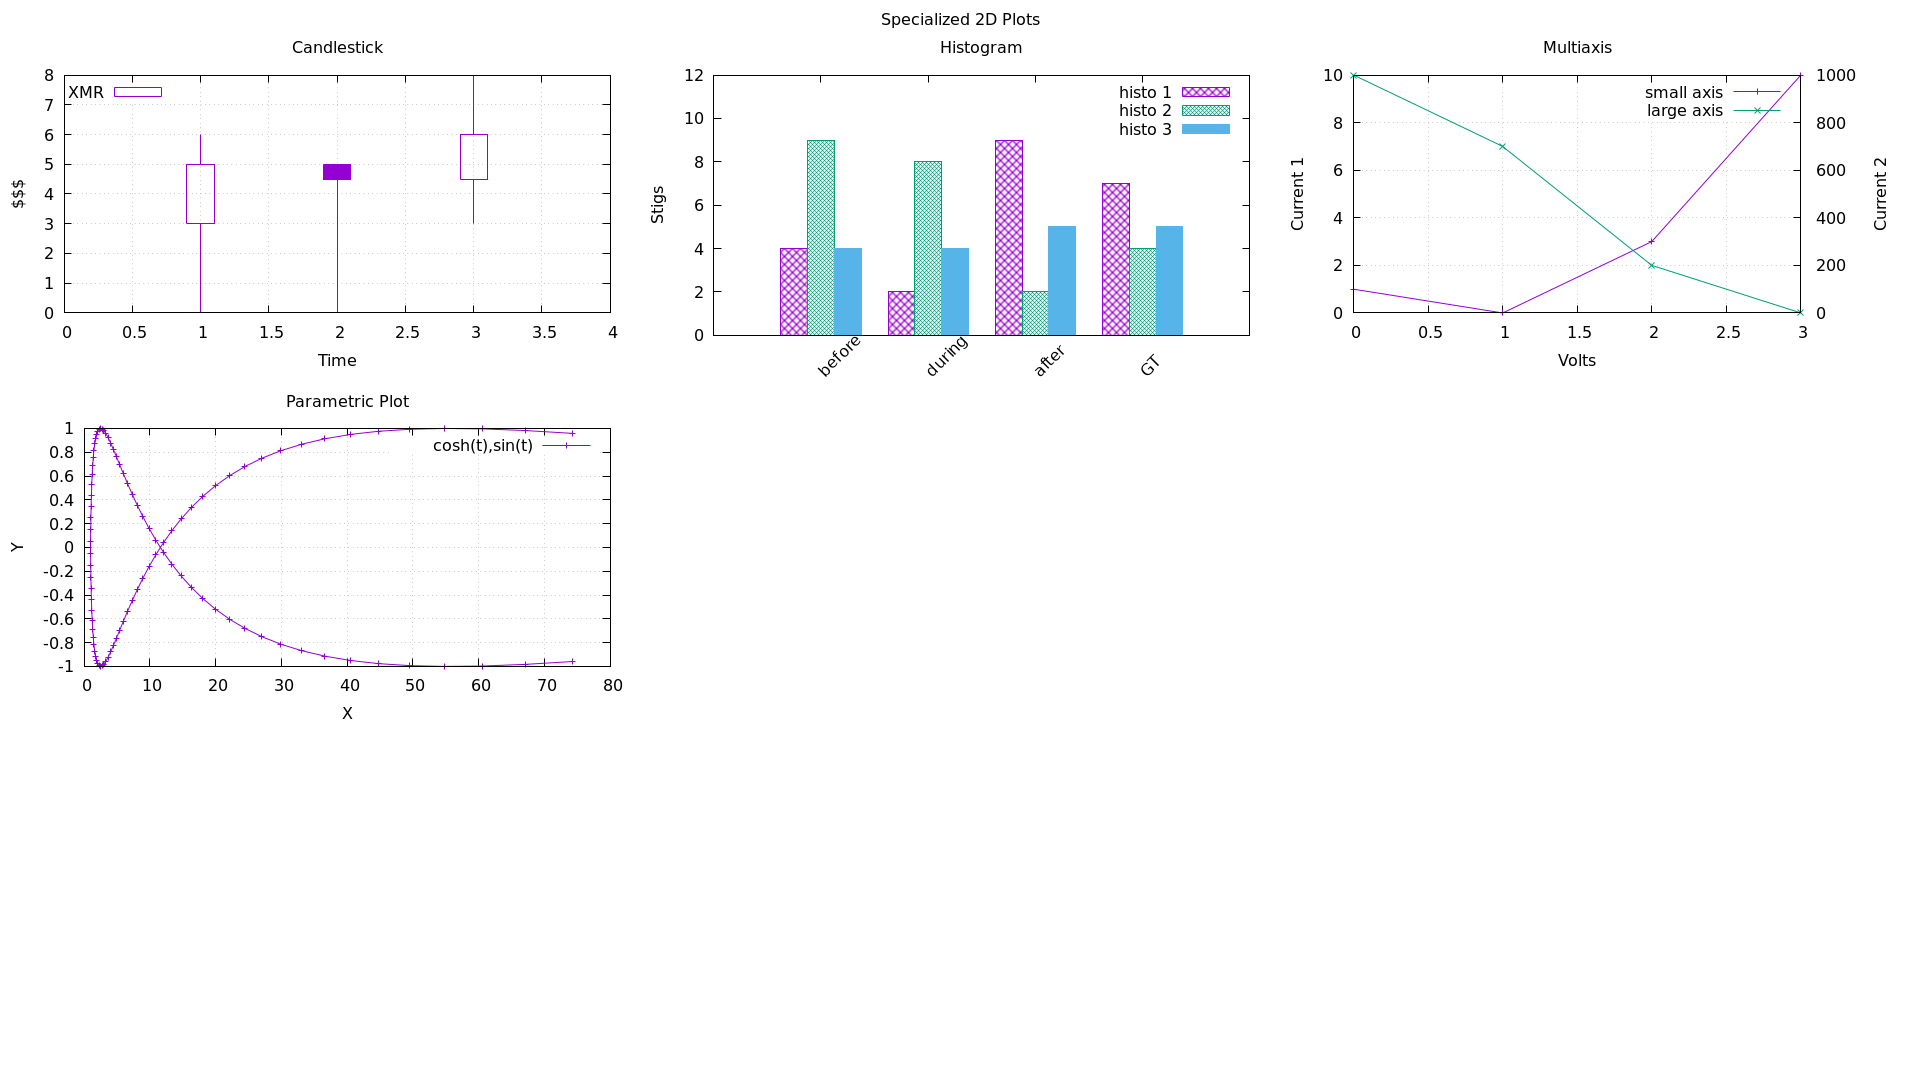
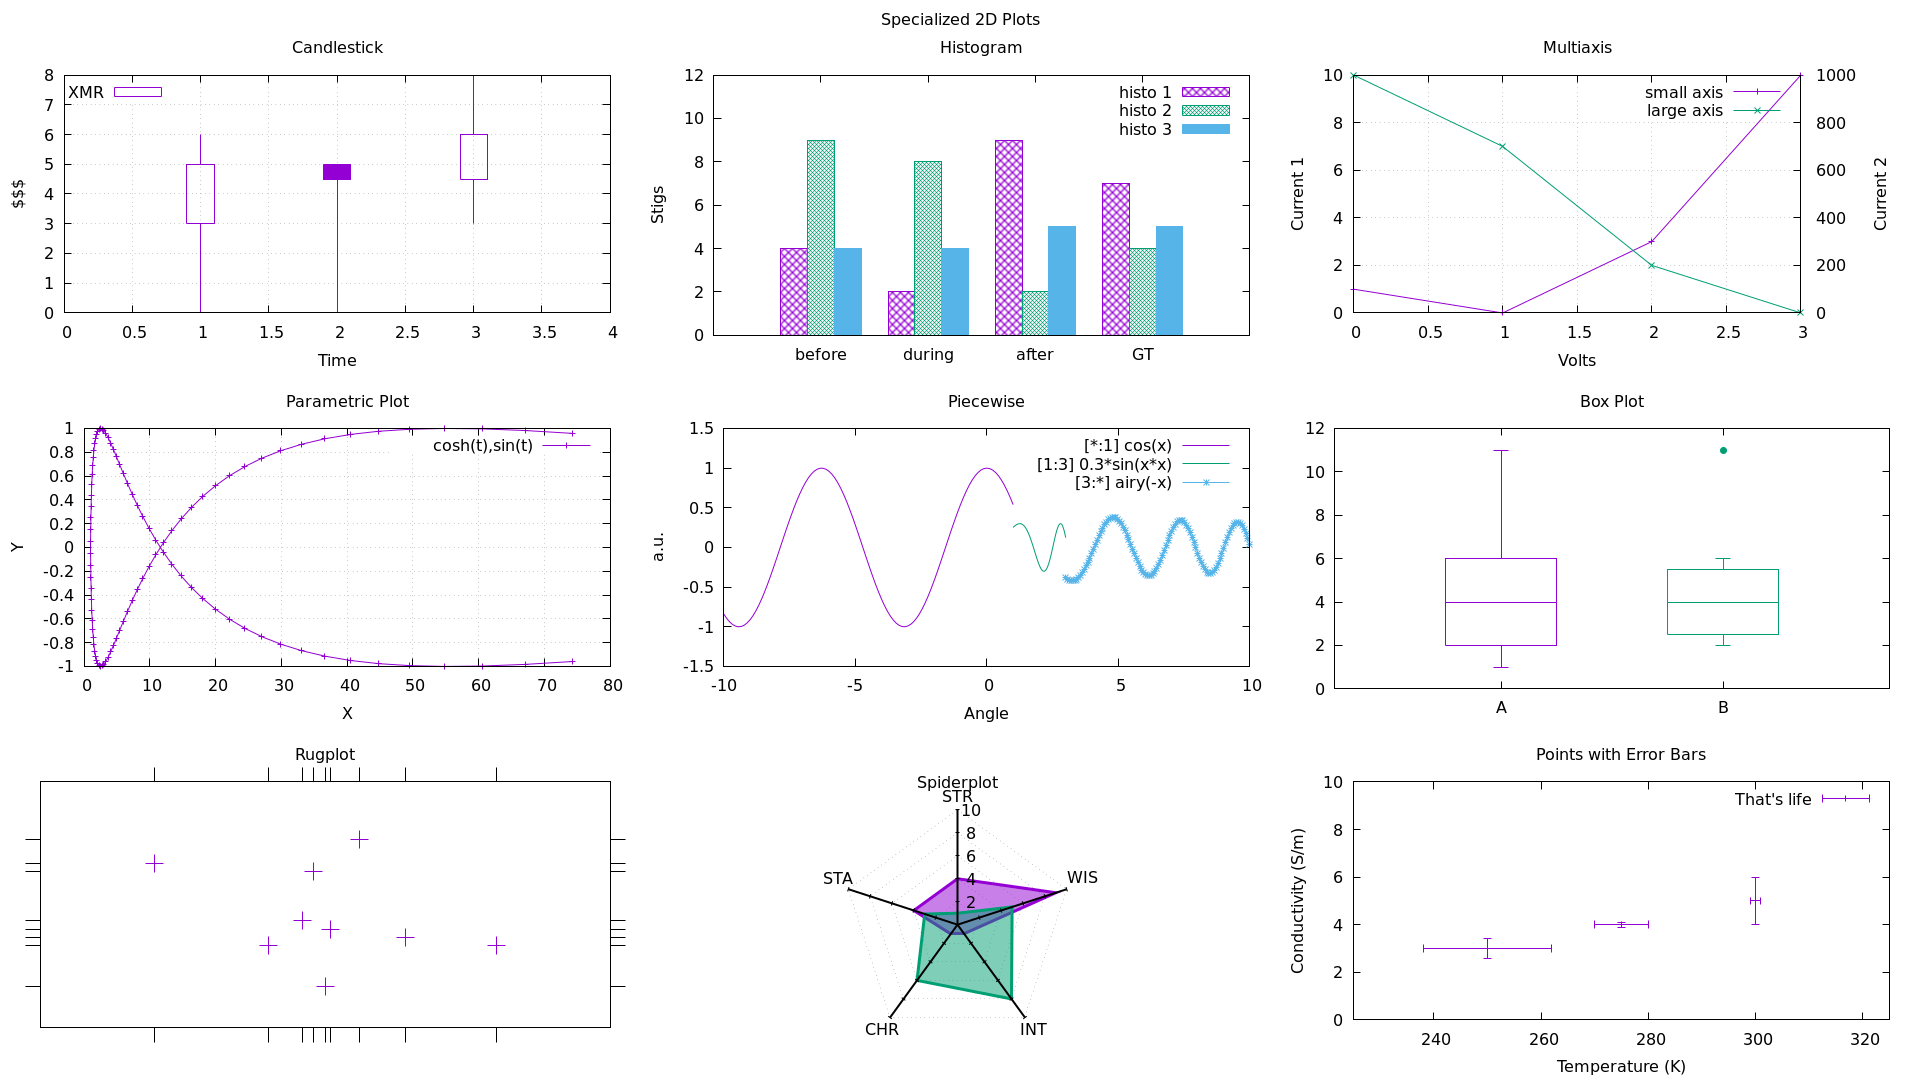
Updated specialized plots in README

diff --git a/README.md b/README.md
@@ -61,32 +61,37 @@ Below is an example of all the different accepted ways to make a 2d plot by the 
 ```
 ![2d-plotting](./resources/2d-plotting.png "2D Plotting")
 
-## More Niche 2D Plotting
-For reference.
+## More Specialized 2D Plotting
+For reference. Forgive the compactness.
 * Candlestick
 * Histogram
 * Multiaxis
 * Parametric
 * Piecewise
-* Box plot
-* Rug plot
-* Jitter plot
-* Spider plot 
+* Box Plot
+* Rug Plot
+* Spider Plot
+* Error Bars
 ```
 (require 'cl-gnuplot)
 (plt:reset)
 (plt:save-plot 
     ("pngcairo lw 1 font ',12' size 1920,1080" "./resources/niche-2d.png") 
-	(plt:send-plot-options :terminal "qt lw 1 font ',12' size 1920,1080")
+	;;(plt:send-plot-options :terminal "qt lw 1 font ',12' size 1920,1080")
 	(plt:string-code-to-2d)
-    (plt:multiplot "layout 3,3 title 'Specialized 2D Plots'"
+	(plt:multiplot "layout 3,3 title 'Specialized 2D Plots'"
                    (list '((1 3 0 6 5) (2 5 0 5 4.5) (3 4.5 3 8 6)) "w candle title 'XMR'"
                          :mxtics "default" :xtics "auto" :xrange "[0:4]" :boxwidth "0.2" :xlabel "'Time'" :ylabel "'$$$'" :title "'Candlestick'" :key "top left" :grid "")
                    (list :style "histogram cluster gap 1" :style "data histogram" :style\ fill "pattern 1"
                          '(4 2 9 7) "u 1 ti 'histo 1'" '(9 8 2 4) "u 1 ti 'histo 2'" '(4 4 5 5) "u 1 ti 'histo 3'"
-                         :boxwidth "1" :ylabel "'Stigs'" :xrange "[-1:4]" :yrange "[0:12]" :title "'Histogram'" :xtics "('before' 0, 'during' 1, 'after' 2, 'GT' 3) rotate by 45 offset 0,-1.5")
+                         :boxwidth "1" :ylabel "'Stigs'" :xrange "[-1:4]" :yrange "[0:12]" :title "'Histogram'" :xtics "('before' 0, 'during' 1, 'after' 2, 'GT' 3)")
                    (list '(1 0 3 10) "w lp ti 'small axis' axes x1y1" '(1000 700 200 0) "w lp ti 'large axis' axes x1y2" :xlabel "'Volts'" :ytics "nomirror" :y2tics "" :title "'Multiaxis'" :ylabel "'Current 1'" :y2label "'Current 2'" :grid "")
-                   (list :parametric "" "cosh(t),sin(t) w lp title 'cosh(t),sin(t)'" :title "'Parametric Plot'" :xlabel "'X'" :ylabel "'Y'" :grid "")))
+                   (list :parametric "" "cosh(t),sin(t) w lp title 'cosh(t),sin(t)'" :title "'Parametric Plot'" :xlabel "'X'" :ylabel "'Y'" :grid "")
+                   (list "sample [*:1] cos(x), [1:3] 0.3*sin(x*x), [3:*] airy(-x) w lp" :title "'Piecewise'" :yrange "[-1.5:1.5]" :xlabel "'Angle'" :ylabel "'a.u.'")
+                   (list :style "boxplot outliers pt 7" '(1 2 3 4 5 6 11) "u (0):1 w boxplot notitle" '(2 4 5 6 3 11 2 4) "u (1):1 w boxplot notitle" :title "'Box Plot'" :xtics "('A' 0, 'B' 1)")
+                   (list '(1 2 2.3 2.4 2.5 2.55 2.8 3.2 4) '(5 4 4.3 4.9 3.5 4.2 5.3 4.1 4) "u 1:2:xtic(\"\"):ytic(\"\") w p ps 3 notitle" :xtics "out scale 2" :ytics "out scale 2" :xrange "[0:5]" :yrange "[3:6]" :title "'Rugplot'")
+                   (list :spiderplot "" :style "spiderplot fs transparent solid border lw 3.0" :style "data spiderplot" :for "[i=1:5] paxis i range [0:10]" :paxis "2 label offset 0.2,0.4" :paxis "5 label offset -0.2,0.4" :paxis "1 tics" :for "[i=2:5] paxis i tics format \"\""  '(\"STR\" 4 1) "title columnhead" '(\"WIS\" 9 5) "title columnhead" '(\"INT\" 1 8) "title columnhead" '(\"CHR\" 1 6) "title columnhead" '(\"STA\" 4 3) "title columnhead" :title "'Spiderplot'" :grid "")
+                   (list '((250 3 12 0.4) (275 4 5 0.1) (300 5 1 1)) "w xyerrorbars title 'That''s life'" :title "'Points with Error Bars'" :xrange "[225:325]" :yrange "[0:10]" :xlabel "'Temperature (K)'" :ylabel "'Conductivity (S/m)'")))
 ```
 ![niche-2d-plotting](./resources/niche-2d.png "Specialized 2D Plotting")
 
